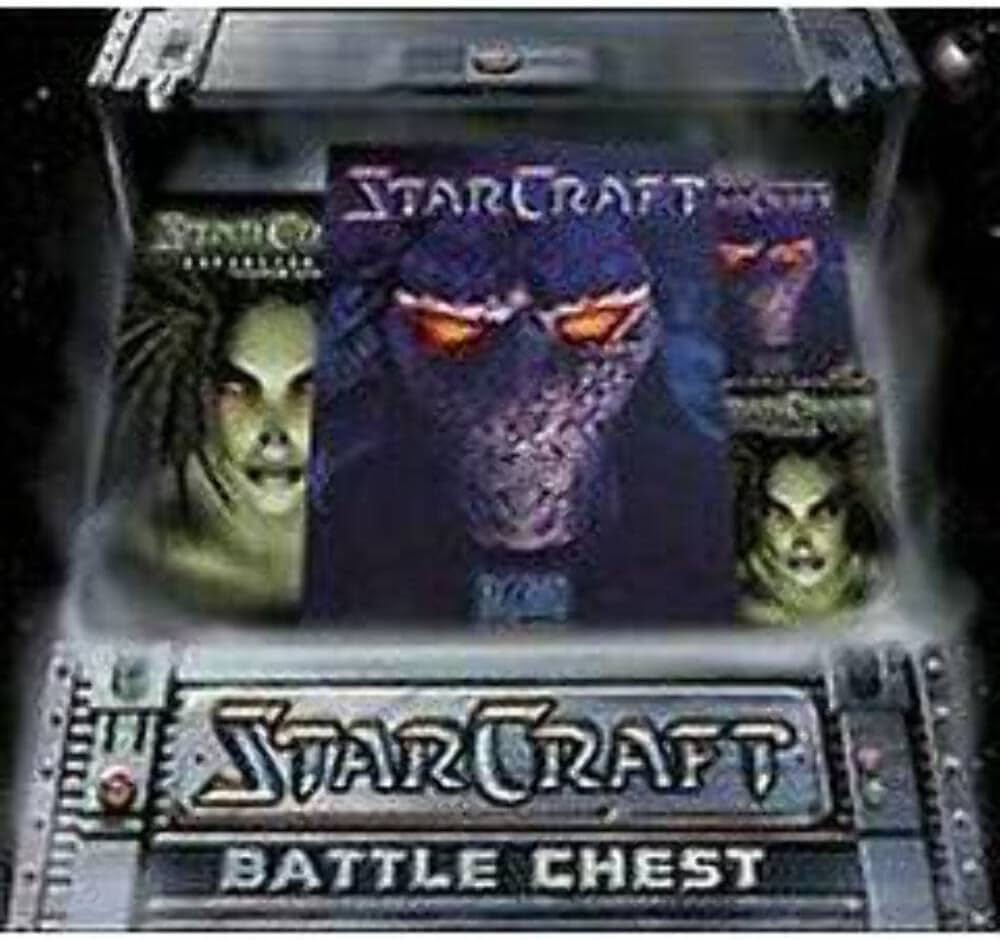
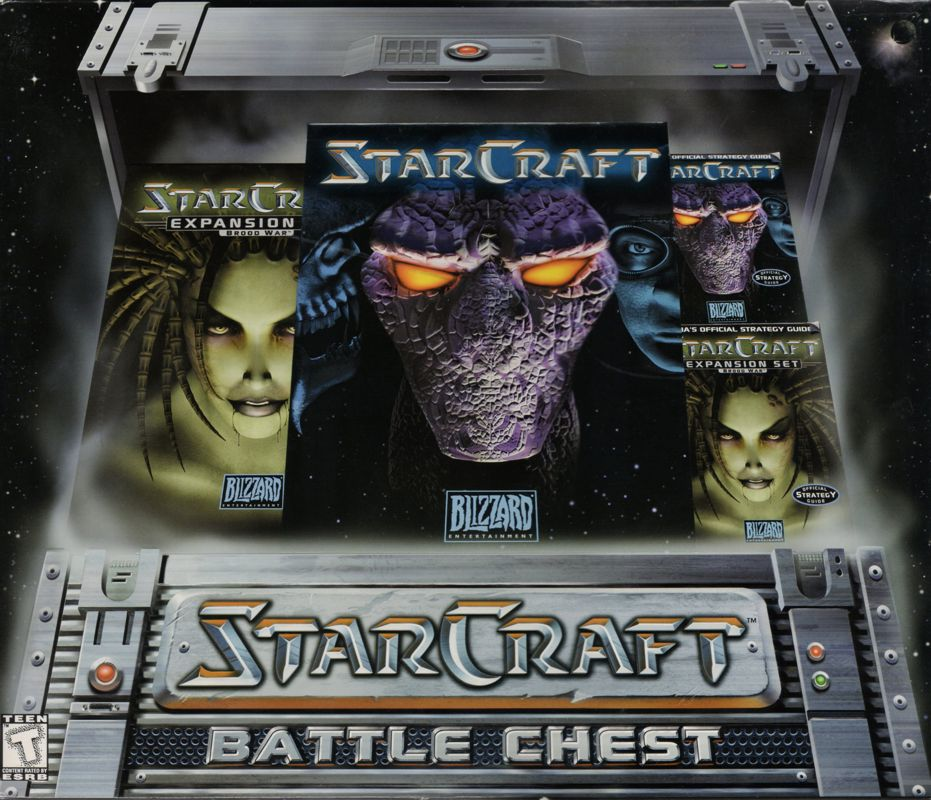
images from CDROM are now imported to CDROMGAMES.js

diff --git a/src/app/shared/CDROMGAMES.js b/src/app/shared/CDROMGAMES.js
@@ -1,52 +1,59 @@
 import nintendoLogo from "../assets/images/Microsoft/xbox360/Xbox360.png";
+import diableBattleChest from "../assets/images/CDROM/win_diable_battlechest.jpg"
+import lordOfTheRingFellowshipOfTheRing from "../assets/images/CDROM/win_lordoftheringsthefellowshipofthering.jpg"
+import starcraftBattleChest from "../assets/images/CDROM/win_starcraft_battlechest.jpg"
+import worldOfWarcraft from "../assets/images/CDROM/win_worldofwarcraft.jpg"
+import worldOfWarcraftTBC from "../assets/images/CDROM/win_worldofwarcraftburningcrusade.jpg"
+import worldOfWarcraftWOTLK from "../assets/images/CDROM/win_worldofwarcraftwrathofthelichking.jpg"
+import worldOfWarcraftCata from "../assets/images/CDROM/win_worldofwarcarftcataclysm.jpg"
 
 export const CDROM = [
     {
         id: 0,
         name: 'Diablo: Battle Chest',
-        image: nintendoLogo,
+        image: diableBattleChest,
         genre: 'Action Role-Playing Game',
         discription: 'Contains Diable, Diable II and Diable II: Lord of Destruction'
     },
     {
         id: 1,
         name: 'Lord of the Ring: The Fellowship of the Ring',
-        image: nintendoLogo,
+        image: lordOfTheRingFellowshipOfTheRing,
         genre: 'Action-Adventure',
         discription: 'The first book of Lord of the Ring is transformed into a video game with some liberties.'
     },
     {
         id: 2,
         name: 'StarCraft Battle Chest',
-        image: nintendoLogo,
+        image: starcraftBattleChest,
         genre: 'Real-Tiem Strategy',
         discription: 'Contains StarCraft and StarCraft: Brood War'      
     },
     {
         id: 3,
         name: 'World of Warcraft',
-        image: nintendoLogo,
+        image: worldOfWarcraft,
         genre: 'Massively Multiplayer Online',
         discription: 'Blizzard massive open world, base on the Warcraft games, where two warring factions fight for Azeroth.'        
     },
     {
         id: 4,
         name: 'World of Warcraft: The Burning Crusade',
-        image: nintendoLogo,
+        image: worldOfWarcraftTBC,
         genre: 'Massively Multiplayer Online',
         discription: 'The Dark Portal has open and adventurers travel to Outland.'        
     },
     {
         id: 5,
         name: 'World of Warcraft: The Wrath of the Litch King',
-        image: nintendoLogo,
+        image: worldOfWarcraftWOTLK,
         genre: 'Massively Multiplayer Online',
         discription: 'Adventurers travle to Northland to fight aginst the Litch King.'        
     },
     {
         id: 6,
         name: 'World of Warcraft: Cataclysm',
-        image: nintendoLogo,
+        image: worldOfWarcraftCata,
         genre: 'Massively Multiplayer Online',
         discription: 'Azeroth has changed forever as Deathwing returns and scared the world.'      
     }
